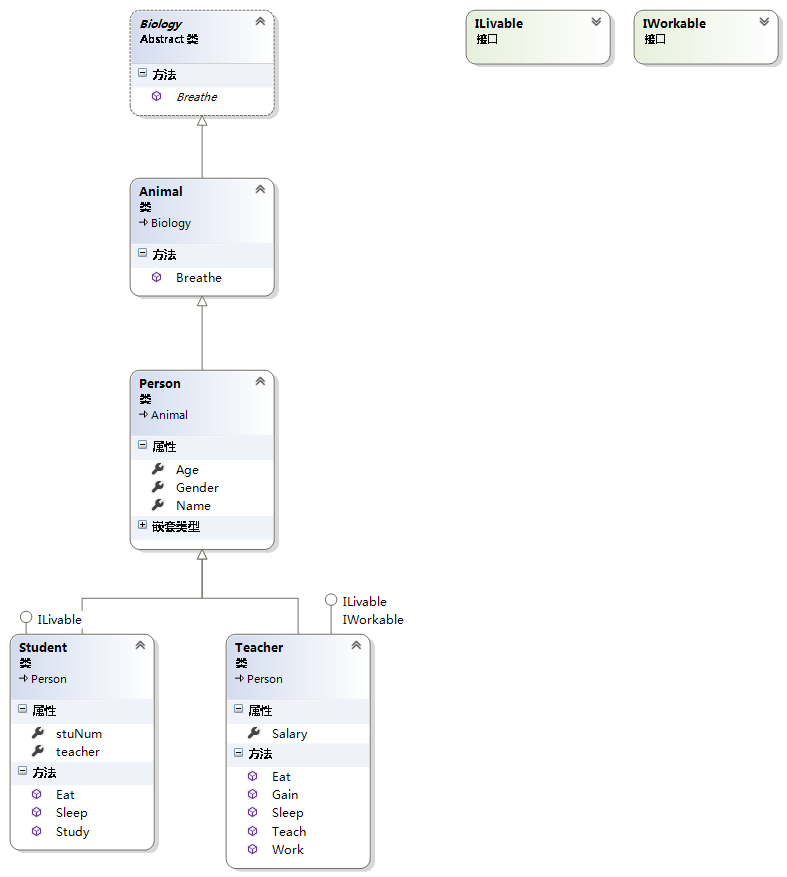
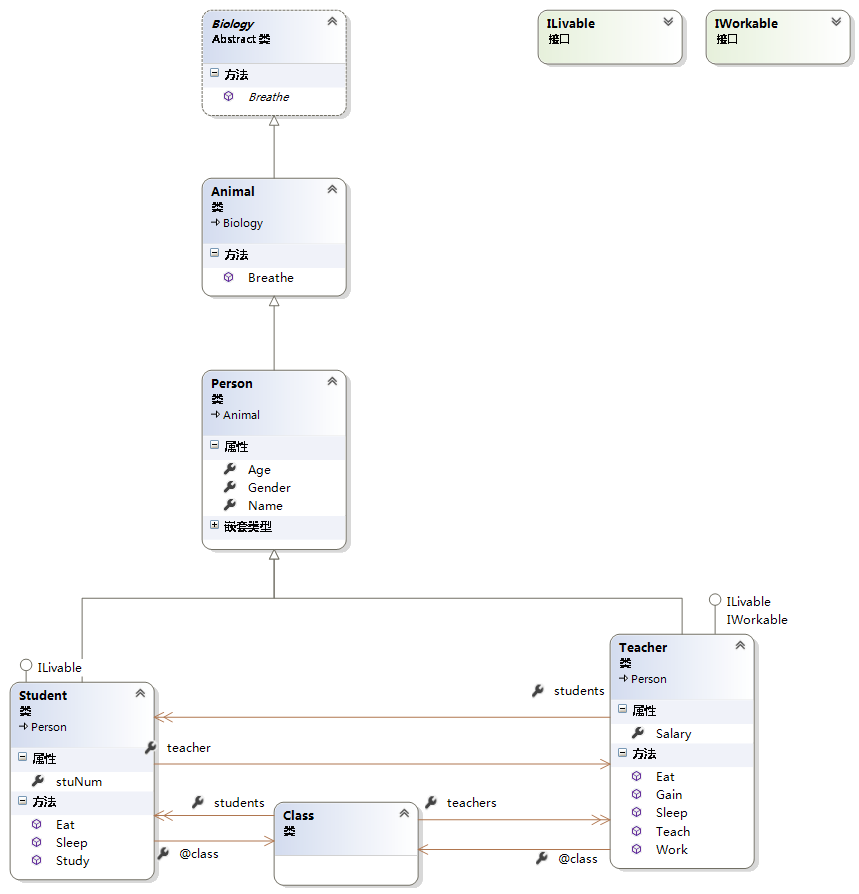
2020年3月29日 23:33:03- Update

diff --git a/UML/Person.cs b/UML/Person.cs
@@ -16,7 +16,11 @@ using System.Threading.Tasks;
 ///在每个类图中，可以通过“——▶”看到其父类
 ///通过“○”表示实现了某个接口
 
-///在VS的UML中除了继承和实现的关系外，其他的依赖关系，聚合关系，关联关系都是没有图示的
+
+///一个类中含有一个属性是另外的一个类的对象集合，使用“——>->”表示
+
+///在VS的UML中除了继承和实现的关系外，其他的依赖关系，聚合关系，关联关系都是默认没有图示的
+///但是，右键可以显示相应的关系
 namespace UML
 {
     public class Person : Animal

diff --git a/UML/Class.cs b/UML/Class.cs
@@ -1,0 +1,14 @@
+using System;
+using System.Collections.Generic;
+using System.Linq;
+using System.Text;
+using System.Threading.Tasks;
+
+namespace UML
+{
+    class Class
+    {
+        public IEnumerable<Student> students { get; set; }
+        public IEnumerable<Teacher> teachers { get; set; }
+    }
+}

diff --git a/UML/Student.cs b/UML/Student.cs
@@ -11,6 +11,9 @@ namespace UML
         public string stuNum { get; set; }
 
         public Teacher teacher { get; set; }
+
+        public Class @class { get; set; }
+
         public void Eat()
         {
             Console.WriteLine("学生吃饭");

diff --git a/UML/Teacher.cs b/UML/Teacher.cs
@@ -10,6 +10,9 @@ namespace UML
     {
         public double Salary { get; set; }
 
+        public IEnumerable<Student> students { get; set; }
+
+        public Class @class { get; set; }
 
         public void Eat()
         {
